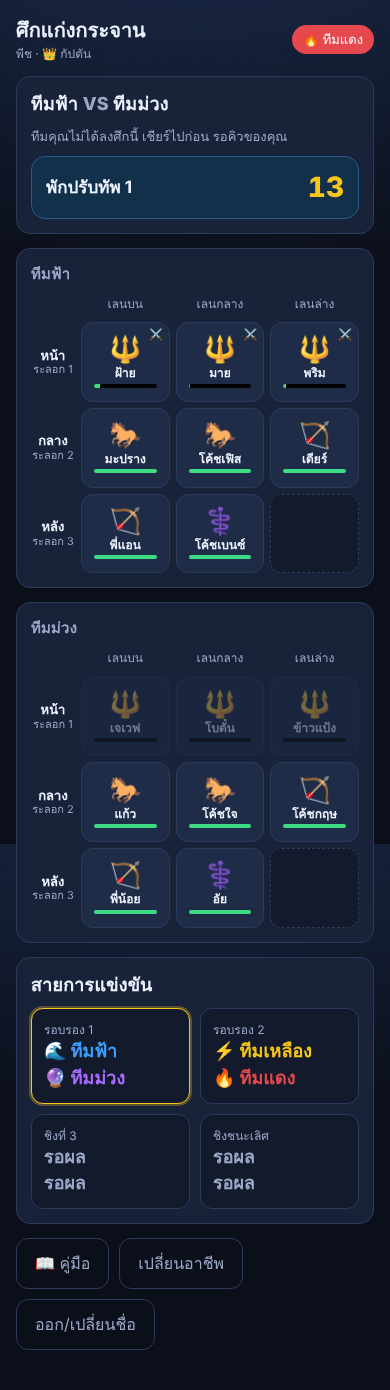
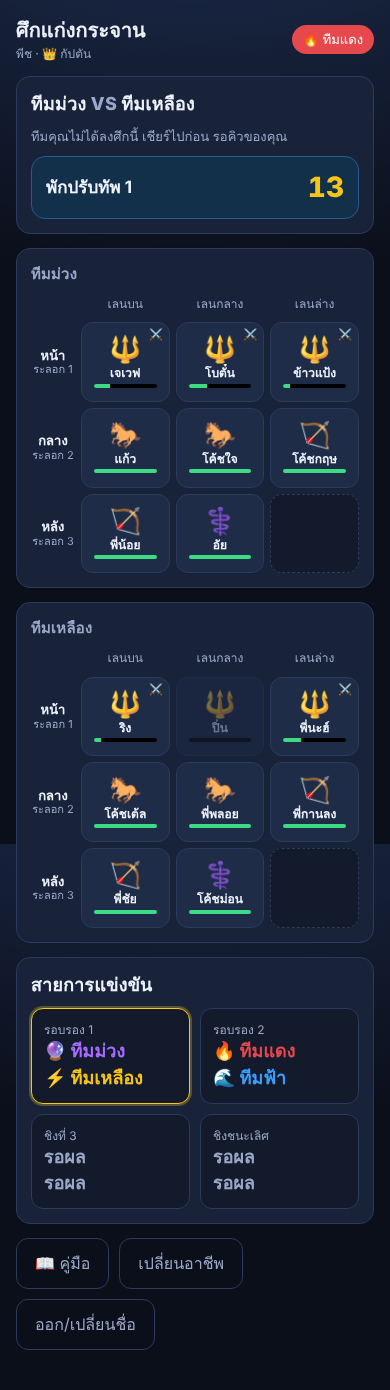
ชนะ 2 ใน 3 รอบต่อคู่ เปลี่ยนอาชีพก่อนรอบ ไอเทมใช้ครั้งเดียวต่อคู่
Claude-Session: https://claude.ai/code/session_01JbJWCdY4QKd2woKbG6bJFF

diff --git a/js/app.js b/js/app.js
@@ -95,8 +95,10 @@
     const ex = st.players[pid];
     await R('players/' + pid).set({ name, team, cls: (ex && ex.cls) || null, cell: ex && ex.cell != null ? ex.cell : null, ts: now() });
   }
+  function canChangeClass() { const p = myPlayer(); if (!p) return false; if (st.match && sideOf(p.team) && phase() === 'battle' && st.match.stage !== 'plan' && st.match.stage !== 'result') return false; return true; }
   async function setClass(cls) {
     const p = myPlayer(); if (!p) return;
+    if (!canChangeClass()) return toast('เปลี่ยนอาชีพได้เฉพาะช่วงวางแผนก่อนเริ่มรอบ');
     if (cls === 'medic') { const n = teamPlayers(p.team).filter((x) => x.cls === 'medic' && x.name !== p.name).length; if (n >= settings().medicMax) return toast('ทีมมีหมอครบ ' + settings().medicMax + ' คนแล้ว'); }
     await R('players/' + me.pid).update({ cls });
   }
@@ -130,13 +132,19 @@
     const t = st.teams[team] || {};
     return { team, cells, roster: ros, plan: t.plan || 'front' };
   }
-  async function startMatch(id, a, b) {
-    const S = settings();
-    const seed = 'm' + id + '-' + Math.floor(Math.random() * 1e9).toString(36);
+  async function startMatch(id, a, b, round, wins) {
+    const S = settings(); round = round || 1; wins = wins || { a: 0, b: 0 };
+    const seed = 'm' + id + '-r' + round + '-' + Math.floor(Math.random() * 1e9).toString(36);
     const upd = {}; upd[a + '/plan'] = 'front'; upd[a + '/item'] = null; upd[b + '/plan'] = 'front'; upd[b + '/item'] = null;
+    if (round === 1) { upd[a + '/itemsUsed'] = null; upd[b + '/itemsUsed'] = null; }
     await R('teams').update(upd);
-    await R('match').set({ id, a, b, stage: 'plan', stageStart: now(), stageEnds: now() + S.tPlan * 1000, seed, waveInputs: null, taps: null, result: null });
+    await R('match').set({ id, a, b, round, wins, stage: 'plan', stageStart: now(), stageEnds: now() + S.tPlan * 1000, seed, waveInputs: null, taps: null, result: null });
     await R('game').update({ phase: 'battle' });
+  }
+  function matchDecided(m) { const S = settings(); return m && m.wins && (m.wins.a >= S.roundsToWin || m.wins.b >= S.roundsToWin); }
+  async function nextRound() {
+    const m = st.match; if (!m || m.stage !== 'result' || matchDecided(m)) return;
+    await startMatch(m.id, m.a, m.b, (m.round || 1) + 1, m.wins);
   }
   async function advanceStage() {
     const m = st.match; if (!m || m.stage === 'result') return;
@@ -162,16 +170,21 @@
       }
       upd['waveInputs/' + w] = inputs;
     }
+    let decided = false;
     if (next === 'result') {
       const cm = computeMatch(); const res = Sim.decide(cm.units, tapTotals('A'), tapTotals('B'), m.seed);
       upd.result = { winner: res.winner, team: teamOfSide(res.winner), loser: teamOfSide(res.winner === 'A' ? 'B' : 'A'), reason: res.reason, pctA: res.s.A.pct, pctB: res.s.B.pct, aliveA: res.s.A.alive, aliveB: res.s.B.alive };
+      const wins = { a: (m.wins && m.wins.a) || 0, b: (m.wins && m.wins.b) || 0 };
+      if (res.winner === 'A') wins.a++; else wins.b++;
+      upd.wins = wins; decided = wins.a >= S.roundsToWin || wins.b >= S.roundsToWin;
     }
-    upd.stage = next; upd.stageStart = now(); upd.stageEnds = now() + stageDur(next) * 1000;
+    upd.stage = next; upd.stageStart = now(); upd.stageEnds = now() + (next === 'result' ? (decided ? 0 : S.tResult) : stageDur(next)) * 1000;
     const teamUpd = {}; for (const k of Object.keys(upd)) if (k.startsWith('__teams/')) { teamUpd[k.slice(8)] = upd[k]; delete upd[k]; }
     if (Object.keys(teamUpd).length) await R('teams').update(teamUpd);
     await R('match').update(upd);
     if (next === 'result' && st.bracket) {
-      const bu = {}; bu['matches/' + m.id + '/winner'] = upd.result.team; bu['matches/' + m.id + '/loser'] = upd.result.loser;
+      const bu = {}; bu['matches/' + m.id + '/score'] = upd.wins;
+      if (decided) { bu['matches/' + m.id + '/winner'] = upd.result.team; bu['matches/' + m.id + '/loser'] = upd.result.loser; }
       await R('bracket').update(bu);
     }
   }
@@ -183,8 +196,9 @@
   }
   let advancing = false;
   async function hostTick() {
-    if (!isAdmin || !st.match || st.match.stage === 'result') return;
+    if (!isAdmin || !st.match) return;
     const m = st.match;
+    if (m.stage === 'result') { if (!matchDecided(m) && now() >= m.stageEnds + 400 && !advancing) { advancing = true; try { await nextRound(); } catch (e) { console.error(e); } setTimeout(() => { advancing = false; }, 1500); } return; }
     const due = /^wave/.test(m.stage) ? waveFinished() : now() >= m.stageEnds + 400;
     if (due && !advancing) { advancing = true; try { await advanceStage(); } catch (e) { console.error(e); } setTimeout(() => { advancing = false; }, 1500); }
   }
@@ -218,10 +232,11 @@
   function toast(msg) { const t = $('#toast'); t.textContent = msg; t.hidden = false; clearTimeout(toast._t); toast._t = setTimeout(() => { t.hidden = true; }, 2500); }
   function teamChip(team) { const t = D.TEAMS[team]; return `<span class="chip team" style="background:${t.color}">${t.emoji} ${t.name}</span>`; }
   function fmtTime(ms) { const s = Math.max(0, Math.ceil(ms / 1000)); return s; }
+  function scoreChip() { const m = st.match; if (!m) return ''; const w = m.wins || { a: 0, b: 0 }; return `<span class="chip">รอบ ${m.round || 1} · <b style="color:${D.TEAMS[m.a].color}">${w.a}</b> : <b style="color:${D.TEAMS[m.b].color}">${w.b}</b></span>`; }
   function stageBar(big) {
     const m = st.match; if (!m) return '';
     const cls = /^wave/.test(m.stage) ? 'wave' : m.stage === 'result' ? '' : 'pause';
-    const t = m.stage === 'result' ? '' : fmtTime(m.stageEnds - now());
+    const t = m.stage === 'result' ? (matchDecided(m) ? '' : 'รอบถัดไปใน ' + fmtTime(m.stageEnds - now())) : fmtTime(m.stageEnds - now());
     return `<div class="stage ${cls} ${big ? 'big-stage' : ''}"><div class="nm">${STAGE_NAME[m.stage]}</div><div class="tm">${t}</div></div>`;
   }
   function boardHtml(team, opts) {
@@ -266,12 +281,12 @@
   function guideHtml() {
     const S = settings();
     return `<div class="panel guide"><h2>📖 คู่มือศึกแก่งกระจาน</h2>
-      <h3>เกมคืออะไร</h3><div>ทีมละ 8 ฮีโร่ (คุณเองนั่นแหละ) เลือกอาชีพ วางตำแหน่ง แล้วให้สนามจำลองสู้กันเอง 3 ระลอก ใครเหลือเลือดรวมมากกว่าชนะ แข่งแบบจับฉลาก รอบรอง → ชิงที่ 3 → ชิงชนะเลิศ รางวัล ${S.prizes.map((p) => p.toLocaleString()).join(' / ')} บาท</div>
+      <h3>เกมคืออะไร</h3><div>ทีมละ 8 ฮีโร่ (คุณเองนั่นแหละ) เลือกอาชีพ วางตำแหน่ง แล้วให้สนามจำลองสู้กันเอง 3 ระลอก ใครเหลือเลือดรวมมากกว่าชนะ แต่ละคู่ต้องชนะ ${S.roundsToWin} ใน 3 รอบ ทุกรอบเปลี่ยนอาชีพและจัดทัพใหม่ได้ · จับฉลาก รอบรอง → ชิงที่ 3 → ชิงชนะเลิศ รางวัล ${S.prizes.map((p) => p.toLocaleString()).join(' / ')} บาท</div>
       <h3>อาชีพแพ้ทางเป็นวงกลม</h3><div class="counter-table"><div>🐎 ม้า<br><b>ชนะ</b> ธนู 🏹</div><div>🔱 หอก<br><b>ชนะ</b> ม้า 🐎</div><div>🏹 ธนู<br><b>ชนะ</b> หอก 🔱</div></div>
       <div class="small muted">ตีคู่ที่ชนะทาง ×${S.counterWin} / ตีคู่ที่แพ้ทาง ×${S.counterLose} · ⚕ หมอไม่โจมตี ฮีลเพื่อนใกล้ๆ ทุก ${S.healEvery} วิ (ทีมละไม่เกิน ${S.medicMax}) · ม้าที่วิ่งมาไกลพุ่งชนครั้งแรกแรง ×${S.cavCharge}</div>
       <h3>แถวที่วาง = จังหวะที่ออก</h3><ol><li><b>แถวหน้า</b> ออกวินาทีที่ 0 (ระลอก 1)</li><li><b>แถวกลาง</b> ออกระลอก 2</li><li><b>แถวหลัง</b> ไพ่ตาย ออกระลอก 3 ดาเมจทุกคน ×${S.waveMult[2]}</li></ol>
       <div class="small">มี 9 ช่อง 8 คน เลนบน/กลาง/ล่าง มีผล: หอกตีคนที่ใกล้ในเลนตัวเองก่อน ม้าพุ่งข้ามไปหาแถวหลัง ธนูยิงจากไกล</div>
-      <h3>ช่วงพักปรับทัพ (${S.tPause} วิ) ทำได้ 4 อย่าง</h3><ol><li>ย้ายฮีโร่ที่ <b>ยังไม่ออก</b> ไปช่องไหนก็ได้</li><li>กัปตันเลือก <b>แผนเข้าตี</b>: ปะทะหน้า / เข้าด้านข้าง / โอบหลัง</li><li>กัปตันเลือก <b>ไอเทม</b> 1 ชิ้น (มี 4 ใช้ได้แค่ 2 ครั้ง)</li><li><b>ทุกคนรัวกด</b> เติมขวัญกำลังใจ → ระลอกถัดไปตีแรงขึ้นสูงสุด +${Math.round(S.moraleMax * 100)}%</li></ol>
+      <h3>ช่วงพักปรับทัพ (${S.tPause} วิ) ทำได้ 4 อย่าง</h3><ol><li>ย้ายฮีโร่ที่ <b>ยังไม่ออก</b> ไปช่องไหนก็ได้</li><li>กัปตันเลือก <b>แผนเข้าตี</b>: ปะทะหน้า / เข้าด้านข้าง / โอบหลัง</li><li>กัปตันเลือก <b>ไอเทม</b> 1 ชิ้น (มี 4 ชิ้น แต่ละชิ้นใช้ได้ครั้งเดียวตลอดคู่ ต้องเลือกว่าจะทุ่มรอบไหน)</li><li><b>ทุกคนรัวกด</b> เติมขวัญกำลังใจ → ระลอกถัดไปตีแรงขึ้นสูงสุด +${Math.round(S.moraleMax * 100)}%</li></ol>
       <h3>ไอเทมจากกิจกรรม outing</h3><div class="small">ทุกทีมได้ครบ 4 ชิ้น แต่ <b>ระดับต่างกันตามอันดับ</b>: ที่ 1 = เทพ, ที่ 2 = แกร่ง, ที่ 3 = ธรรมดา, ที่ 4 = ขำๆ</div>
       ${Object.values(D.ITEMS).map((I) => `<div class="small">${I.emoji} <b>${I.name}</b> — ${I.desc}: ${I.tiers.map((v, i) => D.TIER_NAMES[i] + ' ' + v + I.unit).join(' / ')}</div>`).join('')}
       <h3>ตัดสินผล</h3><div class="small">ฝ่ายไหนล้มหมดก่อนแพ้ทันที → ครบ 3 ระลอกวัด % เลือดรวม → เท่ากันวัดยอดรัวกด · ดาเมจมีสุ่ม ±15% และคริติคอล 10% ×2 เพื่อให้ลุ้น แต่การวางแผนคือตัวตัดสินหลัก</div>
@@ -375,7 +390,7 @@
   }
   function viewBattlePlayer(p) {
     const m = st.match; const team = p.team; const side = sideOf(team); const enemy = side === 'A' ? m.b : m.a;
-    let h = `<div class="row"><div class="grow"><b>${D.TEAMS[team].name}</b> <span class="vs">VS</span> <b>${D.TEAMS[enemy].name}</b> · ${st.bracket && st.bracket.matches[m.id] ? st.bracket.matches[m.id].label : ''}</div></div>` + stageBar();
+    let h = `<div class="row"><div class="grow"><b>${D.TEAMS[team].name}</b> <span class="vs">VS</span> <b>${D.TEAMS[enemy].name}</b> · ${st.bracket && st.bracket.matches[m.id] ? st.bracket.matches[m.id].label : ''}</div>${scoreChip()}</div>` + stageBar();
     const wave = /^wave/.test(m.stage);
     if (m.stage === 'result') return h + viewResult() + (st.bracket ? viewBracket() : '');
     if (wave) {
@@ -388,12 +403,12 @@
     const cm = computeMatch();
     if (m.stage !== 'plan') h += hpSummaryHtml();
     h += `<div class="panel"><div class="row"><h2 class="grow">${m.stage === 'plan' ? 'วางทัพ 8 คน' : 'ปรับทัพก่อนระลอก ' + (w + 1)}</h2><span class="badge">${teamPlayers(team).filter((x) => x.cell != null).length}/8</span></div>
-      <div class="hint">${ui.sel ? '👉 แตะช่องที่จะวาง' : (m.stage === 'plan' ? 'คู่แข่งยังไม่เห็นทัพคุณ วางแล้วเลือกแผน' : 'ย้ายได้เฉพาะคนที่ยังไม่ออก (⚔ = ออกสนามแล้ว)')}</div>${boardHtml(team, { interactive: true })}</div>`;
+      <div class="hint">${ui.sel ? '👉 แตะช่องที่จะวาง' : (m.stage === 'plan' ? 'คู่แข่งยังไม่เห็นทัพคุณ วางแล้วเลือกแผน' : 'ย้ายได้เฉพาะคนที่ยังไม่ออก (⚔ = ออกสนามแล้ว)')}</div>${boardHtml(team, { interactive: true })}${m.stage === 'plan' ? `<button class="ghost" data-act="change-class">🔁 เปลี่ยนอาชีพของฉัน (${D.CLASSES[p.cls].emoji} ${D.CLASSES[p.cls].name})</button>` : ''}</div>`;
     if (m.stage !== 'plan') {
       h += `<div class="panel"><h3>ทัพศัตรู (${D.TEAMS[enemy].name}) ตอนนี้</h3>${boardHtml(enemy, {})}</div>`;
     }
     h += `<div class="panel"><h2>แผนเข้าตีระลอก ${w + 1} ${isCaptain() ? '' : '<span class="small muted">(กัปตันเลือก)</span>'}</h2>${plansHtml(team, isCaptain())}</div>`;
-    if (m.stage !== 'plan') h += `<div class="panel"><h2>ใช้ไอเทมระลอกนี้ ${isCaptain() ? '' : '<span class="small muted">(กัปตันเลือก)</span>'}</h2><div class="hint">เลือกได้ 1 ชิ้น แตะซ้ำเพื่อยกเลิก เหลือโอกาสใช้ ${2 - teamItems(team).filter((x) => x.used).length} ครั้ง</div>${itemsHtml(team, isCaptain())}</div>`;
+    if (m.stage !== 'plan') h += `<div class="panel"><h2>ใช้ไอเทมระลอกนี้ ${isCaptain() ? '' : '<span class="small muted">(กัปตันเลือก)</span>'}</h2><div class="hint">ระลอกละ 1 ชิ้น แต่ละชิ้นใช้ได้ครั้งเดียวตลอดคู่นี้ (ทุกรอบรวมกัน) แตะซ้ำเพื่อยกเลิก</div>${itemsHtml(team, isCaptain())}</div>`;
     h += `<div class="panel sticky-bottom"><h2>🔥 รัวกดเติมขวัญกำลังใจ</h2>` + tapHtml(side) + `</div>`;
     return h;
   }
@@ -430,9 +445,10 @@
     const W = D.TEAMS[r.team], L = D.TEAMS[r.loser];
     const reason = { wipe: 'ล้างบางทั้งทัพ!', hp: 'เลือดรวมเหลือมากกว่า', taps: 'เลือดเท่ากัน ชนะด้วยยอดรัวกด', coin: 'สูสีจนต้องเสี่ยงดวง' }[r.reason];
     const cm = computeMatch();
-    let h = `<div class="panel center"><div class="sub">ผู้ชนะ</div><div class="hero-title" style="font-size:40px">${W.emoji} ${W.name}</div><div>${reason} · ${Math.round(r.pctA * 100)}% vs ${Math.round(r.pctB * 100)}%</div>${hpSummaryHtml()}</div>`;
+    const dec = matchDecided(m); const w = m.wins || { a: 0, b: 0 };
+    let h = `<div class="panel center"><div class="sub">${dec ? 'ชนะคู่นี้' : 'ชนะรอบที่ ' + (m.round || 1)}</div><div class="hero-title" style="font-size:40px">${W.emoji} ${W.name}</div><div>${reason} · ${Math.round(r.pctA * 100)}% vs ${Math.round(r.pctB * 100)}%</div><div class="display" style="font-size:22px">สกอร์ <span style="color:${D.TEAMS[m.a].color}">${w.a}</span> : <span style="color:${D.TEAMS[m.b].color}">${w.b}</span></div>${dec ? '' : `<div class="hint">รอบถัดไปเริ่มอัตโนมัติใน ${fmtTime(m.stageEnds - now())} วิ · เปลี่ยนอาชีพ/จัดทัพใหม่ได้ตอนวางแผน</div>`}${hpSummaryHtml()}</div>`;
     h += `<div class="panel"><h3>สถิติ</h3>` + statsHtml(cm) + `</div>`;
-    if (isAdmin) h += `<div class="panel"><button class="primary" data-act="next-match">ไปศึกถัดไป ➜</button></div>`;
+    if (isAdmin) h += `<div class="panel row">${dec ? '<button class="primary" data-act="next-match">ไปคู่ถัดไป ➜</button>' : '<button class="primary" data-act="next-round">เริ่มรอบถัดไปเลย ▶</button>'}</div>`;
     return h;
   }
   function statsHtml(cm) {
@@ -444,7 +460,7 @@
   function viewBracket() {
     const b = st.bracket; if (!b) return ''; const M = b.matches; const cur = st.match && st.match.id;
     const card = (id) => { const x = M[id]; const nm = (t) => t ? `<div class="t ${x.winner === t ? 'win' : ''}" style="color:${D.TEAMS[t].color}">${D.TEAMS[t].emoji} ${D.TEAMS[t].name}${x.winner === t ? ' 🏆' : ''}</div>` : `<div class="t muted">รอผล</div>`;
-      return `<div class="match-card ${cur === id ? 'current' : ''}"><div class="lab">${x.label}</div>${nm(x.a)}${nm(x.b)}</div>`; };
+      const sc = x.score ? `<div class="lab">สกอร์ ${x.score.a} : ${x.score.b}</div>` : ''; return `<div class="match-card ${cur === id ? 'current' : ''}"><div class="lab">${x.label}</div>${nm(x.a)}${nm(x.b)}${sc}</div>`; };
     return `<div class="panel"><h2>สายการแข่งขัน</h2><div class="bracket">${card('m1')}${card('m2')}${card('m3')}${card('m4')}</div></div>`;
   }
   function viewPodium() {
@@ -466,7 +482,7 @@
     const A = D.TEAMS[m.a], B = D.TEAMS[m.b];
     const wave = /^wave/.test(m.stage);
     h += `<div class="screen-layout"><div class="side-panel">${sidePanel('A')}</div><div class="side-panel">`;
-    h += `<div class="row"><div class="grow center display" style="font-size:26px"><span style="color:${A.color}">${A.name}</span> <span class="vs">VS</span> <span style="color:${B.color}">${B.name}</span> <span class="small muted">· ${st.bracket && st.bracket.matches[m.id] ? st.bracket.matches[m.id].label : ''}</span></div></div>` + stageBar(true);
+    h += `<div class="row"><div class="grow center display" style="font-size:26px"><span style="color:${A.color}">${A.name}</span> <span class="vs">VS</span> <span style="color:${B.color}">${B.name}</span> <span class="small muted">· ${st.bracket && st.bracket.matches[m.id] ? st.bracket.matches[m.id].label : ''}</span> ${scoreChip()}</div></div>` + stageBar(true);
     if (wave || m.stage === 'result') h += `<div class="arena"><canvas id="arena"></canvas><div class="overlay" id="arena-overlay"></div></div><div class="commentary" id="commentary"></div>` + hpSummaryHtml();
     else {
       h += `<div class="arena"><canvas id="arena"></canvas><div class="overlay"><div class="banner">${m.stage === 'plan' ? '🤫 ทั้งสองทีมกำลังวางทัพลับ' : '⏸ พักปรับทัพ · ใช้ไอเทม · รัวกด!'}</div></div></div>`;
@@ -505,6 +521,7 @@
         <button class="gold" data-act="draw" ${st.bracket ? '' : ''}>🎲 จับฉลากสาย${st.bracket ? ' (ใหม่)' : ''}</button>
         <button class="primary" data-act="next-match" ${st.bracket ? '' : 'disabled'}>▶ เริ่มศึกถัดไป ${st.bracket ? '(' + (nextMatchId() || 'จบแล้ว') + ')' : ''}</button>
         <button data-act="advance" ${m && m.stage !== 'result' ? '' : 'disabled'}>⏭ ข้ามช่วง</button>
+        <button data-act="next-round" ${m && m.stage === 'result' && !matchDecided(m) ? '' : 'disabled'}>▶ รอบถัดไป</button>
         <button class="ghost" data-act="extend" ${m && m.stage !== 'result' ? '' : 'disabled'}>+15 วิ</button>
         <button class="danger" data-act="restart-match" ${m ? '' : 'disabled'}>↺ เริ่มศึกนี้ใหม่</button>
       </div>${st.bracket ? viewBracket() : ''}</div>`;
@@ -566,7 +583,7 @@
       else if (act === 'join-back') { ui.joinTeam = null; render(); }
       else if (act === 'join-name') { await joinAs(el.dataset.team, el.dataset.name); ui.joinTeam = null; render(); }
       else if (act === 'class') { await setClass(el.dataset.cls); }
-      else if (act === 'change-class') { await R('players/' + me.pid).update({ cls: null }); }
+      else if (act === 'change-class') { if (!canChangeClass()) return toast('เปลี่ยนอาชีพได้เฉพาะช่วงวางแผนก่อนเริ่มรอบ'); await R('players/' + me.pid).update({ cls: null }); }
       else if (act === 'leave') { me = null; try { localStorage.removeItem('kkwar-me'); } catch (e) {} ui.joinTeam = null; render(); }
       else if (act === 'guide') { ui.showGuide = true; render(); window.scrollTo(0, 0); }
       else if (act === 'guide-close') { ui.showGuide = false; render(); }
@@ -593,10 +610,11 @@
       else if (act === 'admin-logout') { isAdmin = false; try { localStorage.removeItem('kkwar-admin'); } catch (e) {} render(); }
       else if (act === 'atab') { ui.adminTab = el.dataset.tab; render(); }
       else if (act === 'draw') { if (st.bracket && !confirmUi(el, 'จับฉลากใหม่จะล้างผลศึกทั้งหมด กดอีกครั้งเพื่อยืนยัน')) return; await R('match').set(null); await drawBracket(); toast('จับฉลากแล้ว'); }
-      else if (act === 'next-match') { await startNextMatch(); }
+      else if (act === 'next-match') { if (st.match && st.match.stage === 'result' && !matchDecided(st.match)) return toast('คู่นี้ยังไม่จบ (ต้องชนะ ' + settings().roundsToWin + ' รอบ)'); await startNextMatch(); }
+      else if (act === 'next-round') { await nextRound(); }
       else if (act === 'advance') { await advanceStage(); }
       else if (act === 'extend') { await R('match').update({ stageEnds: st.match.stageEnds + 15000 }); }
-      else if (act === 'restart-match') { if (!confirmUi(el, 'เริ่มศึกนี้ใหม่ทั้งหมด? กดอีกครั้ง')) return; const m = st.match; const upd = {}; for (const t of [m.a, m.b]) upd[t + '/itemsUsed'] = null; await R('teams').update(upd); await startMatch(m.id, m.a, m.b); }
+      else if (act === 'restart-match') { if (!confirmUi(el, 'เริ่มศึกนี้ใหม่ทั้งหมด? กดอีกครั้ง')) return; const m = st.match; const upd = {}; for (const t of [m.a, m.b]) upd[t + '/itemsUsed'] = null; await R('teams').update(upd); await startMatch(m.id, m.a, m.b, 1, { a: 0, b: 0 }); }
       else if (act === 'reset-match') { if (!confirmUi(el, 'ล้างศึกและสาย? กดอีกครั้ง')) return; await R('match').set(null); await R('bracket').set(null); const upd = {}; for (const t of D.TEAM_ORDER) { upd[t + '/itemsUsed'] = null; upd[t + '/item'] = null; } await R('teams').update(upd); await R('game').update({ phase: 'lobby' }); }
       else if (act === 'reset-all') { if (!confirmUi(el, 'ล้างทุกอย่างจริงๆ? กดอีกครั้ง')) return; await R('').set({ game: { phase: 'lobby' } }); toast('ล้างแล้ว'); }
       else if (act === 'fill-demo') { await fillDemo(); }
@@ -625,6 +643,6 @@
   R('bracket').on((v) => { st.bracket = v; if (st.ready) render(); else markReady(); });
   R('match').on((v) => { st.match = v; if (st.ready) render(); else markReady(); });
   window.addEventListener('hashchange', render);
-  setInterval(() => { if (st.match && st.match.stage !== 'result') { render(); hostTick(); } }, 1000);
+  setInterval(() => { if (st.match && (st.match.stage !== 'result' || !matchDecided(st.match))) { render(); hostTick(); } }, 1000);
   setTimeout(() => { if (!st.ready) { st.ready = true; render(); } }, 6000);
 })();

diff --git a/tools/e2e.js b/tools/e2e.js
@@ -45,6 +45,15 @@ const path = require('path');
   await waitStage('wave3', 30000); await admin.waitForTimeout(8000);
   await screen.screenshot({ path: 'tools/shots/screen-wave3.png' });
   await waitStage('result', 60000); await admin.waitForTimeout(1500);
+  await screen.screenshot({ path: 'tools/shots/screen-round1.png', fullPage: true });
+  const decided = async () => (await admin.evaluate(() => { const d = JSON.parse(localStorage.getItem('kkwar-mock-db')); const m = d.kkwar.match; return m.wins.a >= 2 || m.wins.b >= 2; }));
+  let guard = 0;
+  while (!(await decided()) && guard++ < 3) {
+    await admin.click('[data-act="next-round"]'); await waitStage('plan', 5000); await admin.waitForTimeout(500);
+    await player.screenshot({ path: 'tools/shots/p-round' + (guard + 1) + '-plan.png', fullPage: true });
+    for (const stg of ['wave1', 'pause1', 'wave2', 'pause2', 'wave3', 'result']) { await admin.click('[data-act="advance"]').catch(() => {}); await waitStage(stg, 40000); if (stg === 'pause1') { const it = await player.$('[data-act="item"]'); if (it) await it.click(); } await admin.waitForTimeout(600); }
+  }
+  console.log('decided after rounds:', guard + 1);
   await screen.screenshot({ path: 'tools/shots/screen-result.png', fullPage: true });
   await player.screenshot({ path: 'tools/shots/p-result.png', fullPage: true });
   await admin.screenshot({ path: 'tools/shots/admin-result.png', fullPage: true });

diff --git a/js/data.js b/js/data.js
@@ -64,7 +64,7 @@ window.GameData = (function () {
     pin: '1234',
     prizes: [3200, 2500, 1900, 1400],
     // เวลา (วินาที)
-    tPlan: 45, tWave1: 15, tPause: 15, tWave2: 15, tWave3: 30,
+    tPlan: 40, tWave1: 12, tPause: 15, tWave2: 12, tWave3: 20, tResult: 30, roundsToWin: 2,
     // สมดุลอาชีพ
     hp:  { cav: 125, spear: 175, archer: 105, medic: 120 },
     atk: { cav: 14, spear: 12, archer: 10, medic: 0 },
